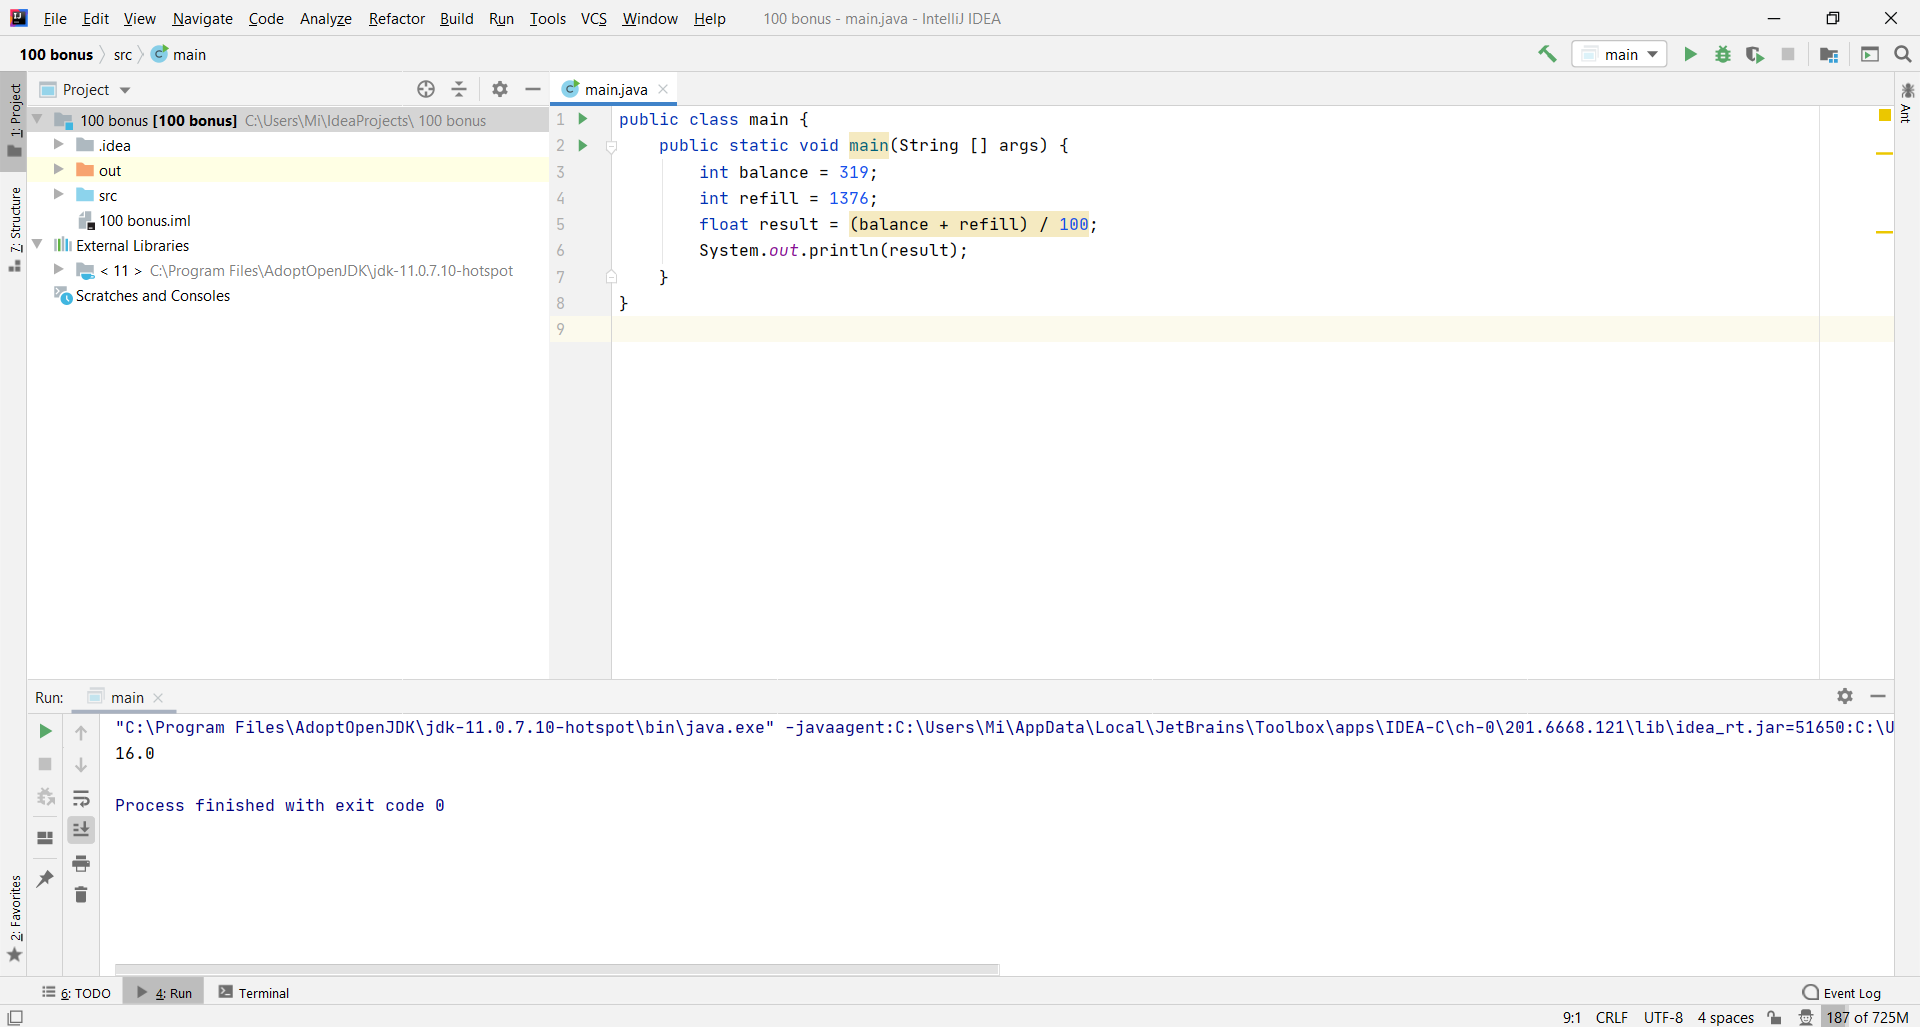
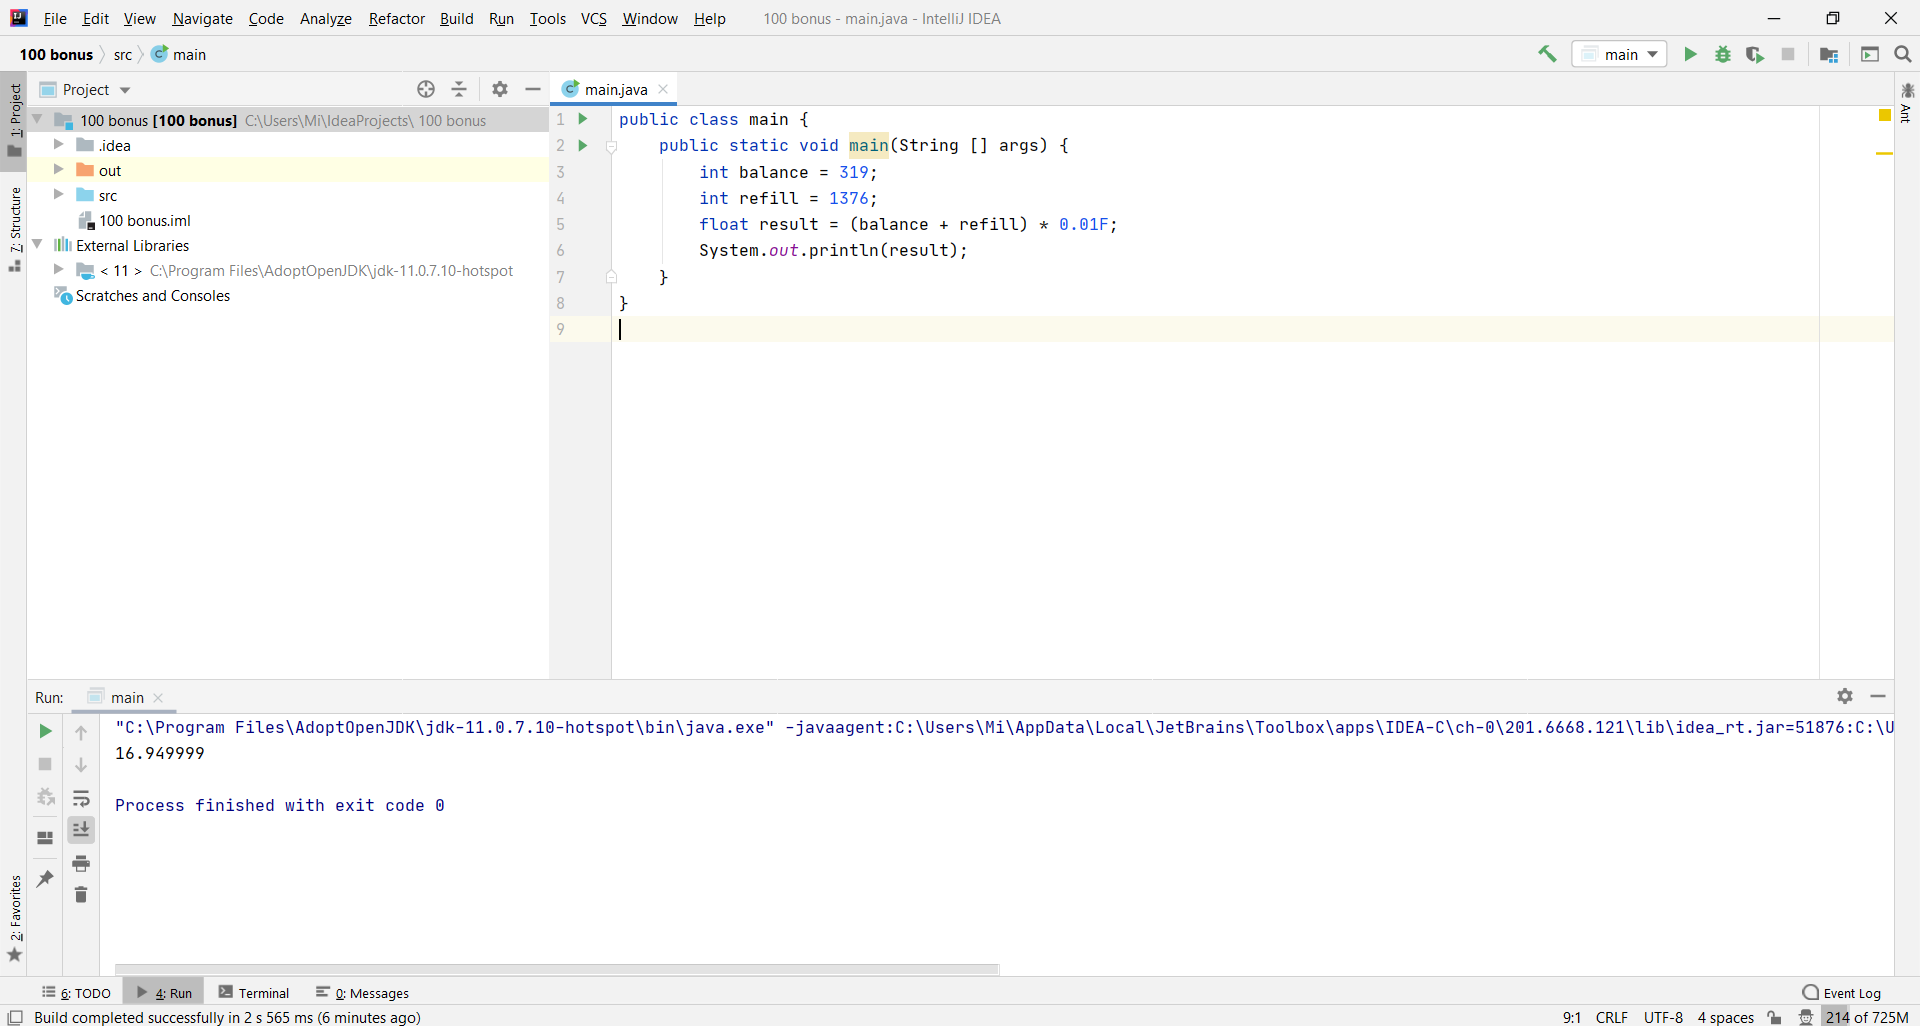
new files

diff --git a/main.java b/main.java
@@ -2,7 +2,7 @@ public class main {
     public static void main(String [] args) {
         int balance = 319;
         int refill = 1376;
-        float result = (balance + refill) / 100;
+        float result = (balance + refill) * 0.01F;
         System.out.println(result);
     }
 }
